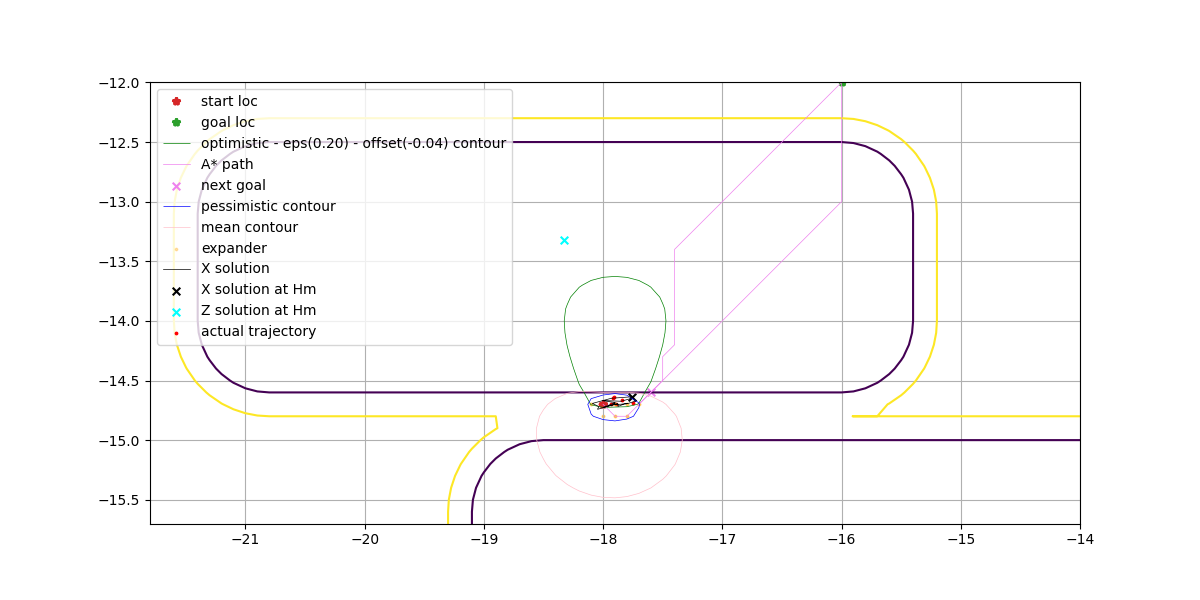
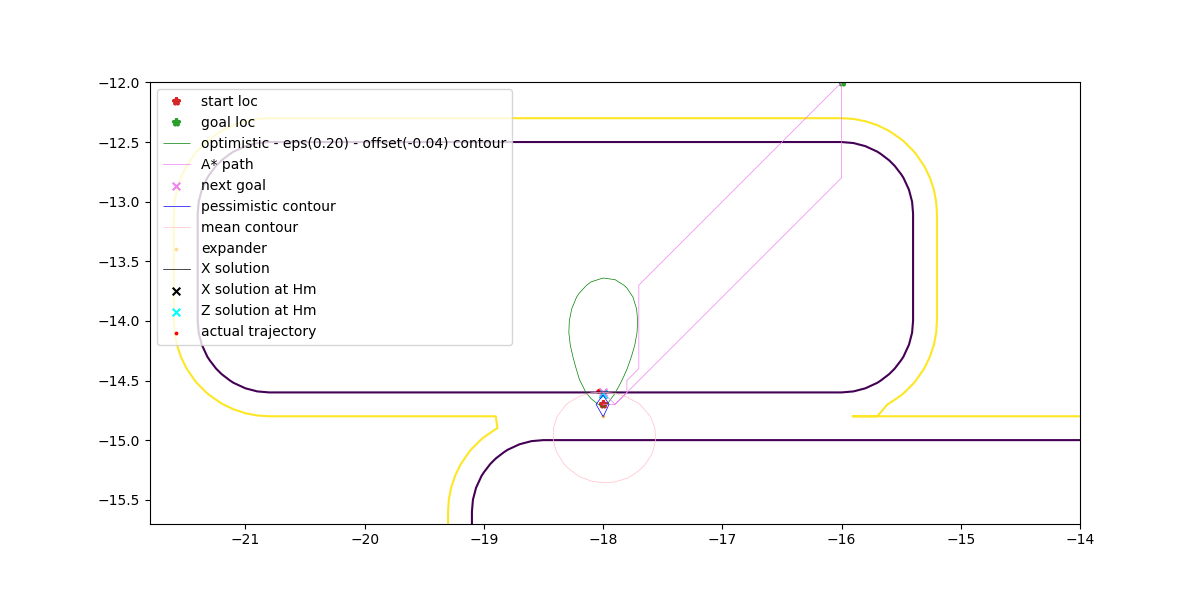
ADD: sageMPC-Lc stuck

diff --git a/src/utils/ocp.py b/src/utils/ocp.py
@@ -363,21 +363,21 @@ def sempc_cost_expr(ocp, model_x, model_u, x_dim, w, xg, var, params):
         or params["algo"]["type"] == "MPC_expander"
         or params["algo"]["type"] == "MPC_expander_V0"
     ):
-        ocp.constraints.idxsh = np.array([1, 2])
-        ocp.cost.zl = 1e2 * np.array([1, 1])
-        ocp.cost.zu = 1e1 * np.array([1, 0.01])
-        ocp.cost.Zl = 1e1 * np.array([[1, 0], [0, 1]])
-        ocp.cost.Zu = 1e1 * np.array([[1, 0], [0, 0.1]])
+        # ocp.constraints.idxsh = np.array([1, 2])
+        # ocp.cost.zl = 1e2 * np.array([1, 1])
+        # ocp.cost.zu = 1e1 * np.array([1, 0.01])
+        # ocp.cost.Zl = 1e1 * np.array([[1, 0], [0, 1]])
+        # ocp.cost.Zu = 1e1 * np.array([[1, 0], [0, 0.1]])
         # ocp.constraints.idxsh = np.array([1, 2])
         # ocp.cost.zl = 1e2 * np.array([1, 1e3])
         # ocp.cost.zu = 1e1 * np.array([1, 1e3])
         # ocp.cost.Zl = 1e1 * np.array([[1, 0], [0, 1e3]])
         # ocp.cost.Zu = 1e1 * np.array([[1, 0], [0, 1e3]])
-        # ocp.constraints.idxsh = np.array([1])
-        # ocp.cost.zl = 1e2 * np.array([1])
-        # ocp.cost.zu = 1e1 * np.array([1])
-        # ocp.cost.Zl = 1e1 * np.array([1])
-        # ocp.cost.Zu = 1e1 * np.array([1])
+        ocp.constraints.idxsh = np.array([1])
+        ocp.cost.zl = 1e2 * np.array([1])
+        ocp.cost.zu = 1e1 * np.array([1])
+        ocp.cost.Zl = 1e1 * np.array([1])
+        ocp.cost.Zu = 1e1 * np.array([1])
     else:
         ocp.constraints.idxsh = np.array([1])
         ocp.cost.zl = 1e2 * np.array([1])

diff --git a/src/solver.py b/src/solver.py
@@ -471,17 +471,17 @@ class SEMPC_solver(object):
         # )
         backtracking_printed = False
         Lc = self.params["common"]["Lc"]
-        # while (
-        #     any(
-        #         LB_cz_val_next
-        #         - Lc
-        #         * np.linalg.norm(X[:-1, : self.x_dim] - U[:, -self.x_dim :], axis=-1)
-        #         < self.params["common"]["constraint"]
-        #     )
-        # ) and (alpha >= 0.0):
-        while (any(gp_val_next < self.params["common"]["constraint"])) and (
-            alpha >= 0.0
-        ):
+        while (
+            any(
+                LB_cz_val_next
+                - Lc
+                * np.linalg.norm(X[:-1, : self.x_dim] - U[:, -self.x_dim :], axis=-1)
+                < self.params["common"]["constraint"]
+            )
+        ) and (alpha >= 0.0):
+        # while (any(gp_val_next < self.params["common"]["constraint"])) and (
+        #     alpha >= 0.0
+        # ):
             if not backtracking_printed:
                 print("Backtracking")
             backtracking_printed = True
